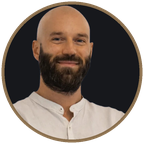
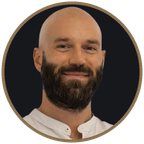
Firma: viso centrato nel tondo e animazione su tutta la banda
Il tondo era tagliato con l'asse del viso 22px a sinistra del centro, e
in un'immagine rotonda e' l'unica cosa che l'occhio verifica davvero.
Ora il cerchio si costruisce da tre misure prese sul ritratto a 900px -
asse del viso, cranio, mento - invece che a occhio: viso centrato, testa
un po' sopra la meta' e spalle sotto, come in un ritratto. Un assert
ferma la build se il cerchio esce dalla foto.

L'animazione prima si muoveva solo nella meta' destra, e per due terzi
del ciclo la banda era ferma. Ora il ciclo racconta tutto:

1. la corrente sale lungo i quattro fili insieme;
2. il nodo lampeggia quando si uniscono;
3. una sola linea corre fino al marchio;
4. il marchio si accende: il fusto si ingrossa e si scurisce.

L'impulso e' un pezzo di linea ridisegnato piu' scuro, non una pallina
che ci scorre sopra: su un filo di un pixel una pallina diventa una
perlina, un tratto piu' scuro si legge come corrente. Si ritaglia per
lunghezza d'arco e non per indice, altrimenti rallenterebbe dove i punti
della curva sono piu' fitti. Nessuna tinta e' piu' chiara della linea
sotto, o sembrerebbe un buco invece di un riflesso.

L'arrivo sul marchio cambia lo spessore e non solo la tinta: a questa
misura il fusto e' due pixel, e un cambio di solo colore non si vedeva.
Il lampo sul nodo copre il passaggio fra fili e spina, che senza aveva
un battito vuoto e sembrava un salto.

Pausa da 1,8 a 1,1 secondi e moto da 1,0 a 1,6: il ciclo resta sotto i
[…]

Changed region(s): [[0.0833, 0.0278, 0.8889, 0.9722], [0.4444, 0.1667, 0.5, 0.1944]]

diff --git a/_build_firma.py b/_build_firma.py
@@ -21,19 +21,22 @@ sfumature si impastano. Qui bastano otto tinte e il file resta leggero.
 
 Uso:  python3.13 _build_firma.py
 """
+import math
 import os
 
 from PIL import Image, ImageDraw
 
 OUT = "assets/firma"
-RITRATTO = "assets/img/firma-avatar.png"   # il tondo della firma precedente
+RITRATTO = "assets/img/ritratto.jpg"   # il ritratto pieno: le misure sotto sono sue
 
 # Palette del sito (home.css)
 AVORIO = (247, 246, 242)
 INCHIOSTRO = (18, 18, 18)
 BRONZO = (138, 111, 78)
 LINEA = (222, 219, 211)
-GRAFITE = (138, 135, 127)   # inchiostro schiarito: quattro fili a tutto
+GRAFITE = (124, 121, 113)
+LAMPO = (58, 43, 27)        # il nodo quando le quattro correnti si uniscono
+ACCESO = (96, 72, 43)       # il bronzo del marchio quando l'impulso arriva   # inchiostro schiarito: quattro fili a tutto
                             # inchiostro peserebbero troppo accanto al testo
 
 SS = 4   # supersampling: si disegna in grande e si rimpicciolisce
@@ -63,28 +66,44 @@ def morbido(t):
 
 # ─────────────────────────────────────────────────────────── avatar
 
+# Misurati sul ritratto a 900x900, con una griglia sopra: l'asse del viso
+# (meta' fra gli occhi) e le due quote della testa. Il tondo della firma
+# precedente era tagliato con l'asse del viso 22px a sinistra del centro,
+# e si vedeva. Qui il cerchio si costruisce da queste tre misure, invece
+# che a occhio.
+VISO_X, CRANIO, MENTO = 428, 50, 378
+ARIA = 0.08          # quanta parte del cerchio resta sopra il cranio
+TESTA = 0.60         # quanta parte del cerchio occupa la testa
+
+
 def avatar(lato=144):
-    """Il ritratto tondo della firma, con l'anello rifatto in bronzo.
+    """Il ritratto tondo della firma, col viso centrato e l'anello bronzo.
 
-    La sorgente e' il tondo della firma precedente: quell'inquadratura e'
-    gia' quella giusta - testa intera e un po' di spalle, con aria sopra -
-    e ritagliarne una nuova dal ritratto del sito veniva stretta.
+    Il cerchio e' centrato sull'asse del viso, non sul centro della foto:
+    e' l'unica cosa che l'occhio verifica davvero in un'immagine tonda.
+    In verticale la testa sta un po' sopra la meta', con le spalle sotto,
+    come in un ritratto: il cranio a __ARIA__ dal bordo alto.
 
-    Qui si tiene il disco della foto e si ridisegna solo l'anello, che
-    nell'originale e' l'oro della vecchia palette e accanto al bronzo del
-    resto della firma stonava. Lo spessore resta in proporzione a quello
-    di prima: dieci pixel su un raggio di 240.
+    L'anello e' nel bronzo del sito, non nell'oro della vecchia palette,
+    che accanto al resto della firma stonava. Lo spessore resta quello di
+    prima in proporzione: dieci pixel su un raggio di 240.
 
     Il cerchio e' cotto nel PNG invece di essere fatto con border-radius,
     che Outlook ignora mostrando un quadrato; gli angoli restano
     trasparenti, cosi' la scheda ci passa sotto.
     """
-    GRANDE = lato * SS
-    r = GRANDE / 2
-    spessore = round(r * 10 / 240)          # stesso rapporto dell'originale
+    D = (MENTO - CRANIO) / TESTA
+    alto = CRANIO - ARIA * D
+    taglio = (VISO_X - D / 2, alto, VISO_X + D / 2, alto + D)
 
-    foto = Image.open(RITRATTO).convert("RGB").resize((GRANDE, GRANDE),
-                                                      Image.LANCZOS)
+    GRANDE = lato * SS
+    spessore = round(GRANDE / 2 * 10 / 240)   # stesso rapporto dell'originale
+
+    foto = Image.open(RITRATTO).convert("RGB")
+    assert min(taglio) >= 0 and max(taglio) <= min(foto.size), \
+        f"il cerchio esce dalla foto: {taglio}"
+    foto = foto.crop([round(v) for v in taglio]).resize((GRANDE, GRANDE),
+                                                        Image.LANCZOS)
 
     disco = Image.new("L", (GRANDE, GRANDE), 0)
     ImageDraw.Draw(disco).ellipse([spessore, spessore,
@@ -114,26 +133,72 @@ X_DRITTO, X_NODO, X_FINE = 170, 410, 800
 X_MARCHIO, SCALA_MARCHIO = 824, 0.56     # il marchio chiude la banda
 
 
-def _fili():
-    """I quattro fili che convergono, piu' la spina di bronzo."""
-    m = maschera(W, H)
-    d = ImageDraw.Draw(m)
+def _percorsi():
+    """I quattro tracciati, punto per punto: servono anche all'animazione."""
+    fuori = []
     for y0 in PARTENZE:
         punti = [(0, y0), (X_DRITTO, y0)]
         for i in range(1, 41):
             t = i / 40
             punti.append((X_DRITTO + t * (X_NODO - X_DRITTO),
                           y0 + (CY - y0) * morbido(t)))
+        fuori.append(punti)
+    return fuori
+
+
+def _misure(punti):
+    """Lunghezze cumulate lungo un tracciato."""
+    L = [0.0]
+    for (x1, y1), (x2, y2) in zip(punti, punti[1:]):
+        L.append(L[-1] + math.hypot(x2 - x1, y2 - y1))
+    return L
+
+
+def _tratto(punti, L, a, b):
+    """Il pezzo di tracciato fra le frazioni a e b della sua lunghezza.
+
+    Si ritaglia per lunghezza e non per indice perche' i segmenti della
+    curva non sono tutti uguali: andando per indice l'impulso rallenterebbe
+    dove i punti sono fitti.
+    """
+    tot = L[-1]
+    a, b = max(0.0, a) * tot, min(1.0, b) * tot
+    if b <= a:
+        return []
+    fuori = []
+    for i in range(len(punti) - 1):
+        if L[i + 1] < a or L[i] > b:
+            continue
+        passo = L[i + 1] - L[i]
+        if passo <= 0:
+            continue
+        (x1, y1), (x2, y2) = punti[i], punti[i + 1]
+        t0 = max(0.0, (a - L[i]) / passo)
+        t1 = min(1.0, (b - L[i]) / passo)
+        if not fuori:
+            fuori.append((x1 + (x2 - x1) * t0, y1 + (y2 - y1) * t0))
+        fuori.append((x1 + (x2 - x1) * t1, y1 + (y2 - y1) * t1))
+    return fuori
+
+
+def _sfumatura():
+    """I fili nascono dal nulla invece che dal bordo tagliato."""
+    s = Image.new("L", (W, H), 255)
+    d = ImageDraw.Draw(s)
+    for x in range(0, 150):
+        d.line([(x, 0), (x, H)], fill=int(255 * morbido(x / 150)))
+    return s
+
+
+def _fili():
+    """I quattro fili che convergono, piu' la spina di bronzo."""
+    m = maschera(W, H)
+    d = ImageDraw.Draw(m)
+    for punti in _percorsi():
         d.line([(x * SS, y * SS) for x, y in punti], fill=255,
                width=int(1.6 * SS), joint="curve")
-    fili = giu(m, W, H)
-
-    # I fili nascono dal nulla invece che dal bordo tagliato.
-    sfuma = Image.new("L", (W, H), 255)
-    ds = ImageDraw.Draw(sfuma)
-    for x in range(0, 150):
-        ds.line([(x, 0), (x, H)], fill=int(255 * morbido(x / 150)))
-    fili = Image.composite(fili, Image.new("L", (W, H), 0), sfuma)
+    fili = Image.composite(giu(m, W, H), Image.new("L", (W, H), 0),
+                           _sfumatura())
 
     m2 = maschera(W, H)
     d2 = ImageDraw.Draw(m2)
@@ -172,13 +237,66 @@ def _bracci_banda(d):
         d.ellipse([x - r, y - r, x + r, y + r], fill=255)
 
 
-def _fusto_banda(d):
+def _fusto_banda(d, k=1.0):
+    """Il fusto di bronzo del marchio. k lo ingrossa quando l'impulso arriva:
+    a questa misura il fusto e' due pixel, e un cambio di sola tinta non si
+    vedrebbe."""
     p, s = _posa_marchio()
-    d.line([p(50, 56), p(50, 8)], fill=255, width=int(8 * s * SS))
+    d.line([p(50, 56), p(50, 8)], fill=255, width=int(8 * k * s * SS))
     for q in ((50, 56), (50, 8)):
         x, y = p(*q)
-        r = 4 * s * SS
+        r = 4 * k * s * SS
         d.ellipse([x - r, y - r, x + r, y + r], fill=255)
+
+
+# L'impulso e' un pezzo di linea ridisegnato piu' scuro, non una pallina
+# che ci scorre sopra: su un filo di un pixel una pallina diventa una
+# perlina, un tratto piu' scuro si legge come corrente che passa. Tre
+# lunghezze sovrapposte fanno la coda, dalla piu' lunga e chiara alla piu'
+# corta e densa. Nessuna tinta e' piu' chiara della linea sotto: un pezzo
+# piu' chiaro sembrerebbe un buco, non un riflesso.
+CODA_FILI = ((0.22, (156, 139, 116)), (0.12, BRONZO), (0.05, (104, 80, 54)))
+CODA_SPINA = ((0.17, (122, 97, 67)), (0.09, (92, 71, 47)), (0.04, (58, 43, 27)))
+
+
+def _nodo(f, forza):
+    """Il lampo sul punto di convergenza.
+
+    Senza, fra l'arrivo della corrente sui fili e la partenza lungo la
+    spina restava un battito vuoto, e il passaggio sembrava un salto.
+    E' anche il momento che conta: quattro cose che diventano una.
+    """
+    if forza <= 0:
+        return
+    forza = min(1.0, forza)
+    m = maschera(W, H)
+    r = (4.5 + 3.5 * forza) * SS
+    ImageDraw.Draw(m).ellipse([X_NODO * SS - r, CY * SS - r,
+                               X_NODO * SS + r, CY * SS + r], fill=255)
+    c = tuple(round(BRONZO[k] + (LAMPO[k] - BRONZO[k]) * forza) for k in range(3))
+    tinta(f, giu(m, W, H), c)
+
+
+def _impulso(percorsi, misure, testa, coda, largh, sfumato):
+    """I tre strati della coda, come maschere gia' pronte da tingere."""
+    strati = []
+    for lung, colore in coda:
+        m = maschera(W, H)
+        d = ImageDraw.Draw(m)
+        vuoto = True
+        for punti, L in zip(percorsi, misure):
+            p = _tratto(punti, L, testa - lung, testa)
+            if len(p) >= 2:
+                d.line([(x * SS, y * SS) for x, y in p], fill=255,
+                       width=int(largh * SS), joint="curve")
+                vuoto = False
+        if vuoto:
+            continue
+        m = giu(m, W, H)
+        if sfumato:
+            m = Image.composite(m, Image.new("L", (W, H), 0), _sfumatura())
+        strati.append((m, colore))
+    return strati
 
 
 def banda():
@@ -189,34 +307,60 @@ def banda():
     tinta(fermo, bracci, INCHIOSTRO)
     tinta(fermo, spina, BRONZO)
 
-    # La luce che corre: un nodo scuro con una scia corta che si spegne
-    # dentro il bronzo della riga. Le tinte non salgono mai sopra il bronzo:
-    # un eco piu' chiaro della riga sembrerebbe un buco, non un riflesso.
-    echi = [(0, (74, 56, 36), 4.6), (6, (90, 69, 46), 4.3),
-            (12, (106, 83, 56), 3.9), (18, (119, 94, 65), 3.5),
-            (24, (130, 104, 73), 3.1), (30, BRONZO, 2.7)]
+    percorsi = _percorsi()
+    misure = [_misure(p) for p in percorsi]
+    spina_pt = [[(X_NODO, CY), (X_FINE, CY)]]
+    spina_L = [_misure(spina_pt[0])]
 
-    frames = [fermo]                      # fotogramma 1: disegno finito
-    durate = [1800]                       # e una lunga pausa prima di partire
-    PASSI = 26
-    for i in range(PASSI):
-        t = morbido(i / (PASSI - 1))
-        testa = X_NODO + t * (X_FINE - X_NODO)
+    # Fotogramma 1: il disegno finito. Outlook si ferma qui.
+    frames, durate = [fermo], [1100]
+
+    # 1. La corrente sale lungo i quattro fili tutta insieme. Prima era
+    #    ferma meta' banda, e il movimento si notava appena.
+    N = 14
+    for i in range(N):
+        t = morbido((i + 1) / N)
         f = fermo.copy()
-        d = ImageDraw.Draw(f)
-        for dietro, colore, r in reversed(echi):
-            x = testa - dietro
-            if x <= X_NODO:
-                continue
-            # verso la fine la luce si spegne invece di sbattere sul bordo
-            if t > 0.8 and dietro == 0:
-                r *= 1 - (t - 0.8) / 0.2 * 0.6
-            d.ellipse([x - r, CY - r, x + r, CY + r], fill=colore)
+        for m, c in _impulso(percorsi, misure, t, CODA_FILI, 2.0, True):
+            tinta(f, m, c)
+        _nodo(f, max(0.0, (i - 9) / 4))
         frames.append(f)
         durate.append(45)
 
-    salva_gif(frames, durate, f"{OUT}/firma-allineamento.gif",
-              [GRAFITE, BRONZO, INCHIOSTRO] + [c for _, c, _ in echi])
+    # 2. Dal nodo in poi corre una sola linea: le quattro cose sono
+    #    diventate una direzione.
+    N = 16
+    for i in range(N):
+        t = morbido((i + 1) / N)
+        f = fermo.copy()
+        for m, c in _impulso(spina_pt, spina_L, t, CODA_SPINA, 3.6, False):
+            tinta(f, m, c)
+        _nodo(f, max(0.0, 1 - i / 4))
+        frames.append(f)
+        durate.append(45)
+
+    # 3. L'arrivo: il marchio si accende. E' il senso dell'animazione -
+    #    le quattro discipline arrivano da qualche parte - e serve anche
+    #    a chiudere lo sguardo sul marchio invece che sul bordo.
+    for forza, durata in ((1.0, 90), (1.0, 70), (0.7, 60), (0.42, 60), (0.2, 60), (0.0, 60)):
+        f = fermo.copy()
+        if forza:
+            m = maschera(W, H)
+            d = ImageDraw.Draw(m)
+            _fusto_banda(d, k=1 + 0.5 * forza)
+            p, s = _posa_marchio()
+            r = (4 + 7 * forza) * s * SS
+            x, y = p(50, 56)
+            d.ellipse([x - r, y - r, x + r, y + r], fill=255)
+            acceso = tuple(round(BRONZO[k] + (ACCESO[k] - BRONZO[k]) * forza)
+                           for k in range(3))
+            tinta(f, giu(m, W, H), acceso)
+        frames.append(f)
+        durate.append(durata)
+
+    tinte = [GRAFITE, BRONZO, INCHIOSTRO, ACCESO, LAMPO]
+    tinte += [c for _, c in CODA_FILI] + [c for _, c in CODA_SPINA]
+    salva_gif(frames, durate, f"{OUT}/firma-allineamento.gif", tinte)
 
 
 # ──────────────────────────────────────────────────────────── uscita
